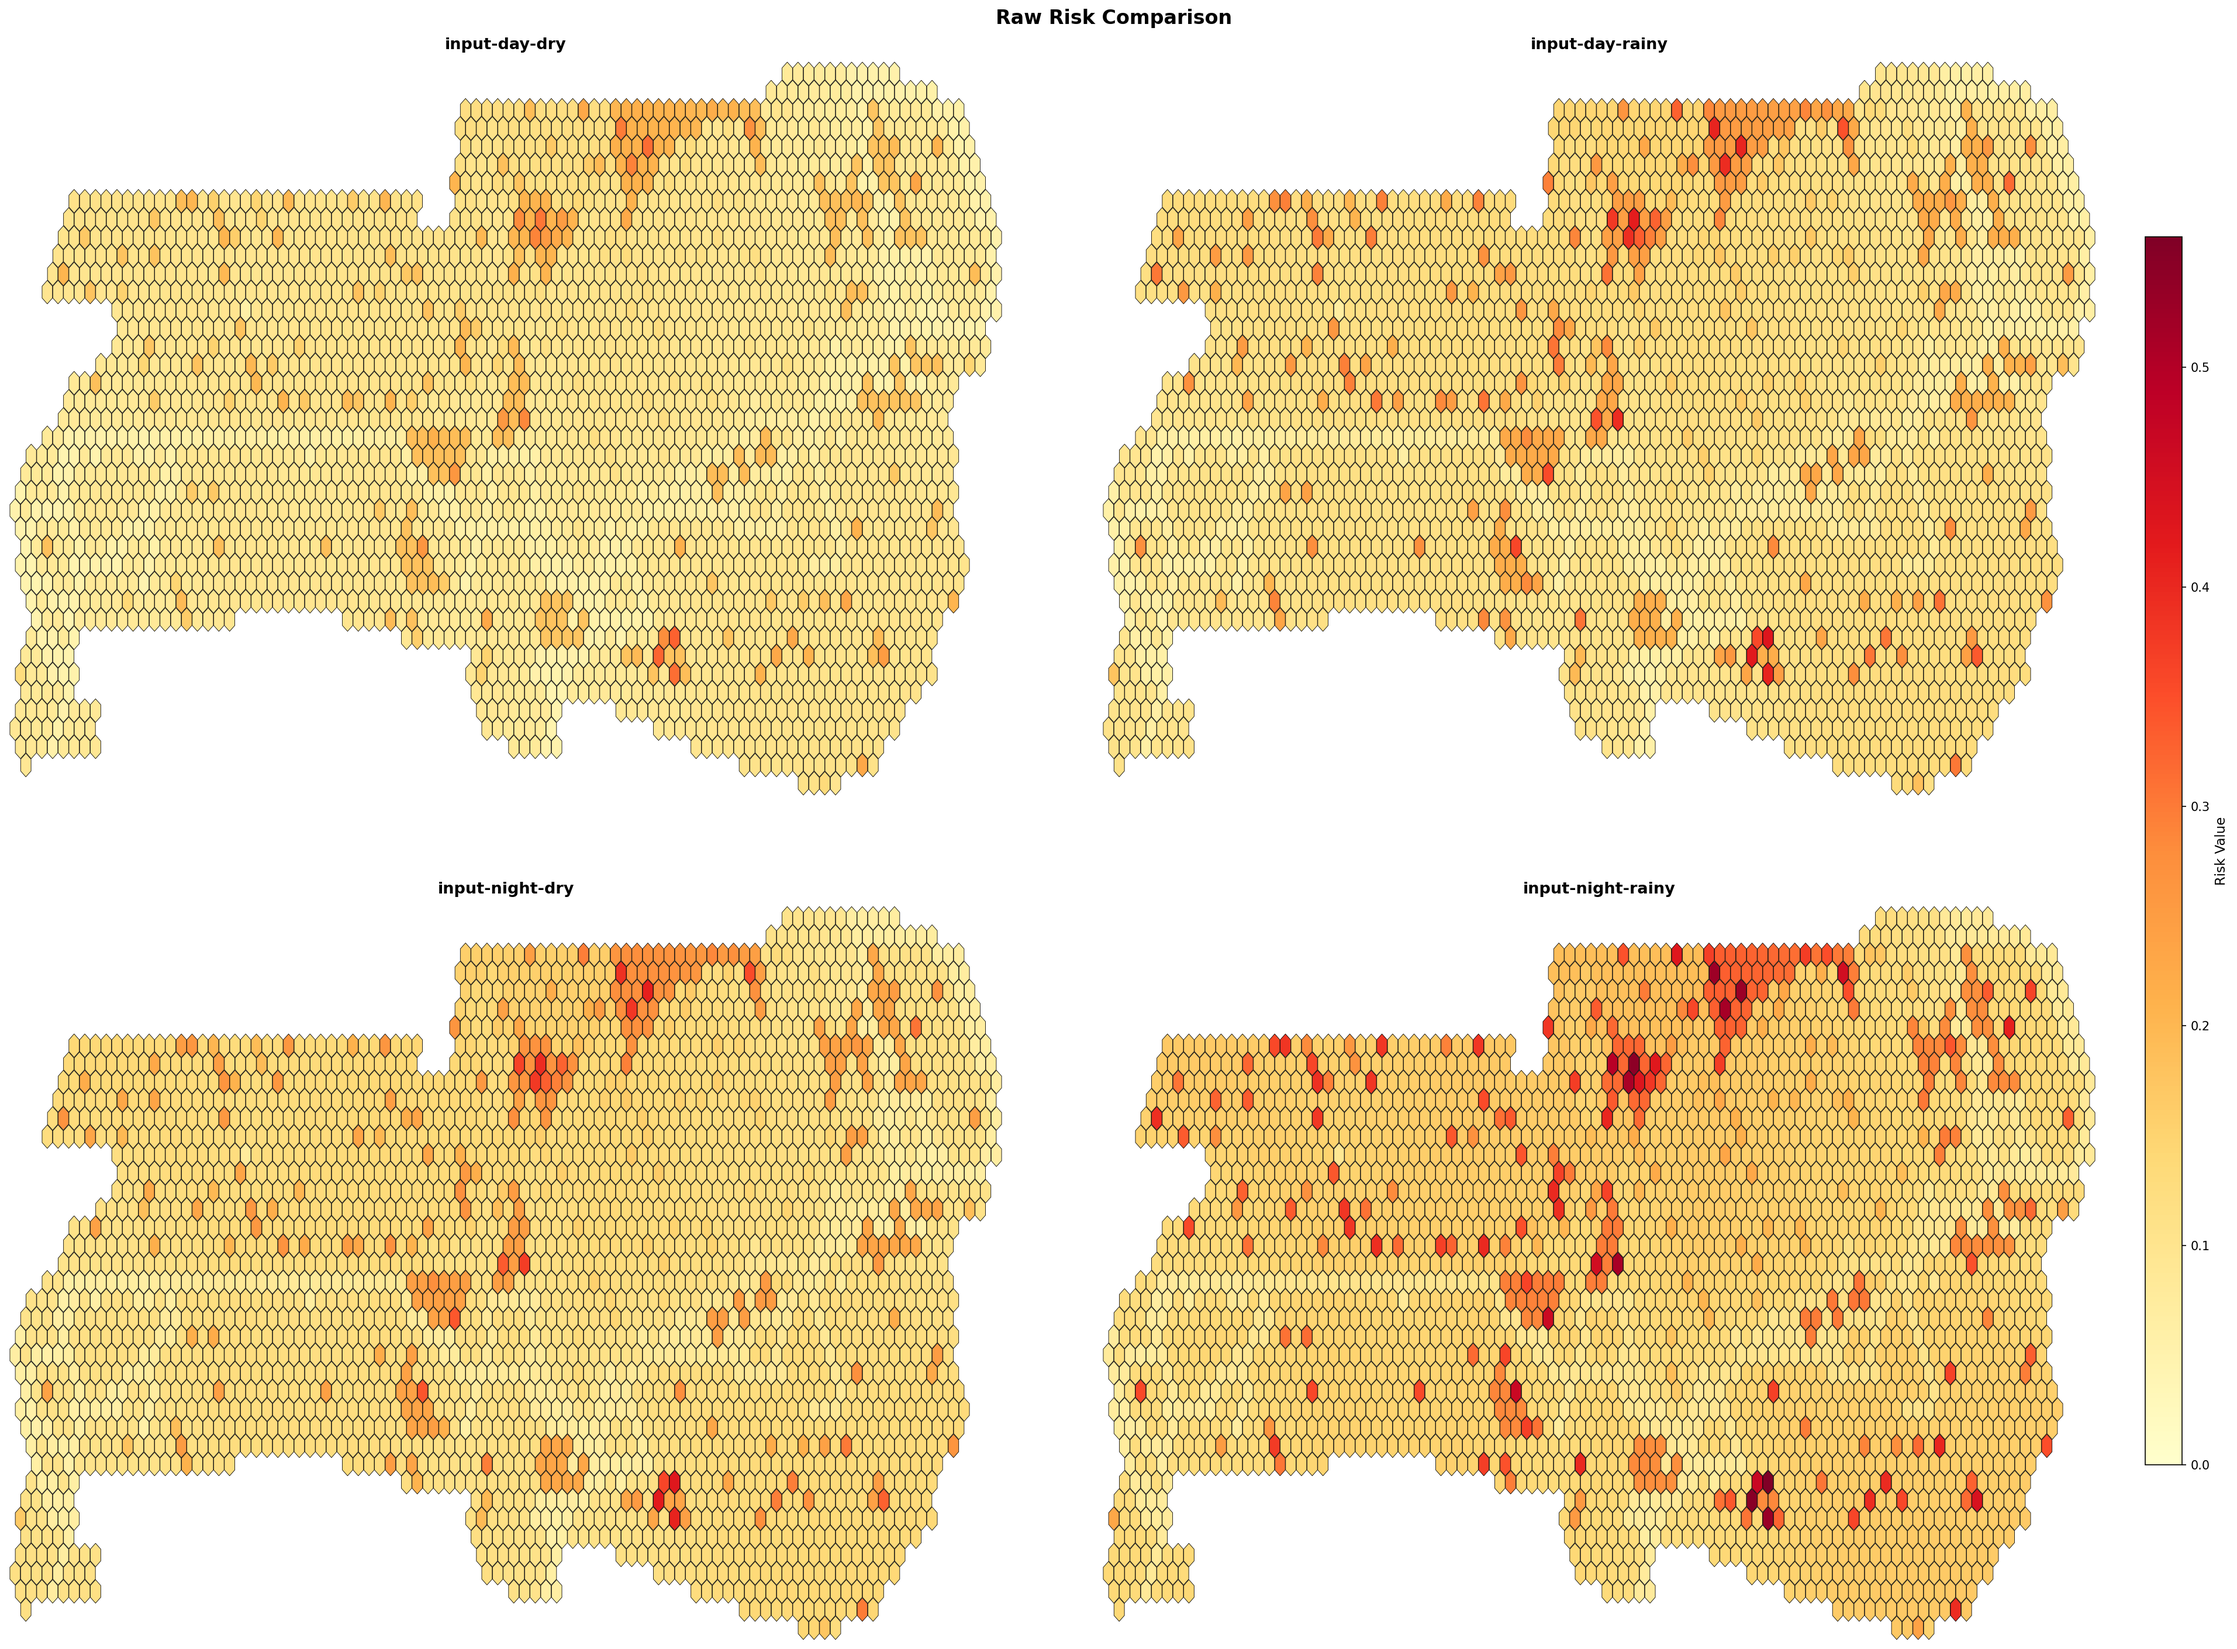
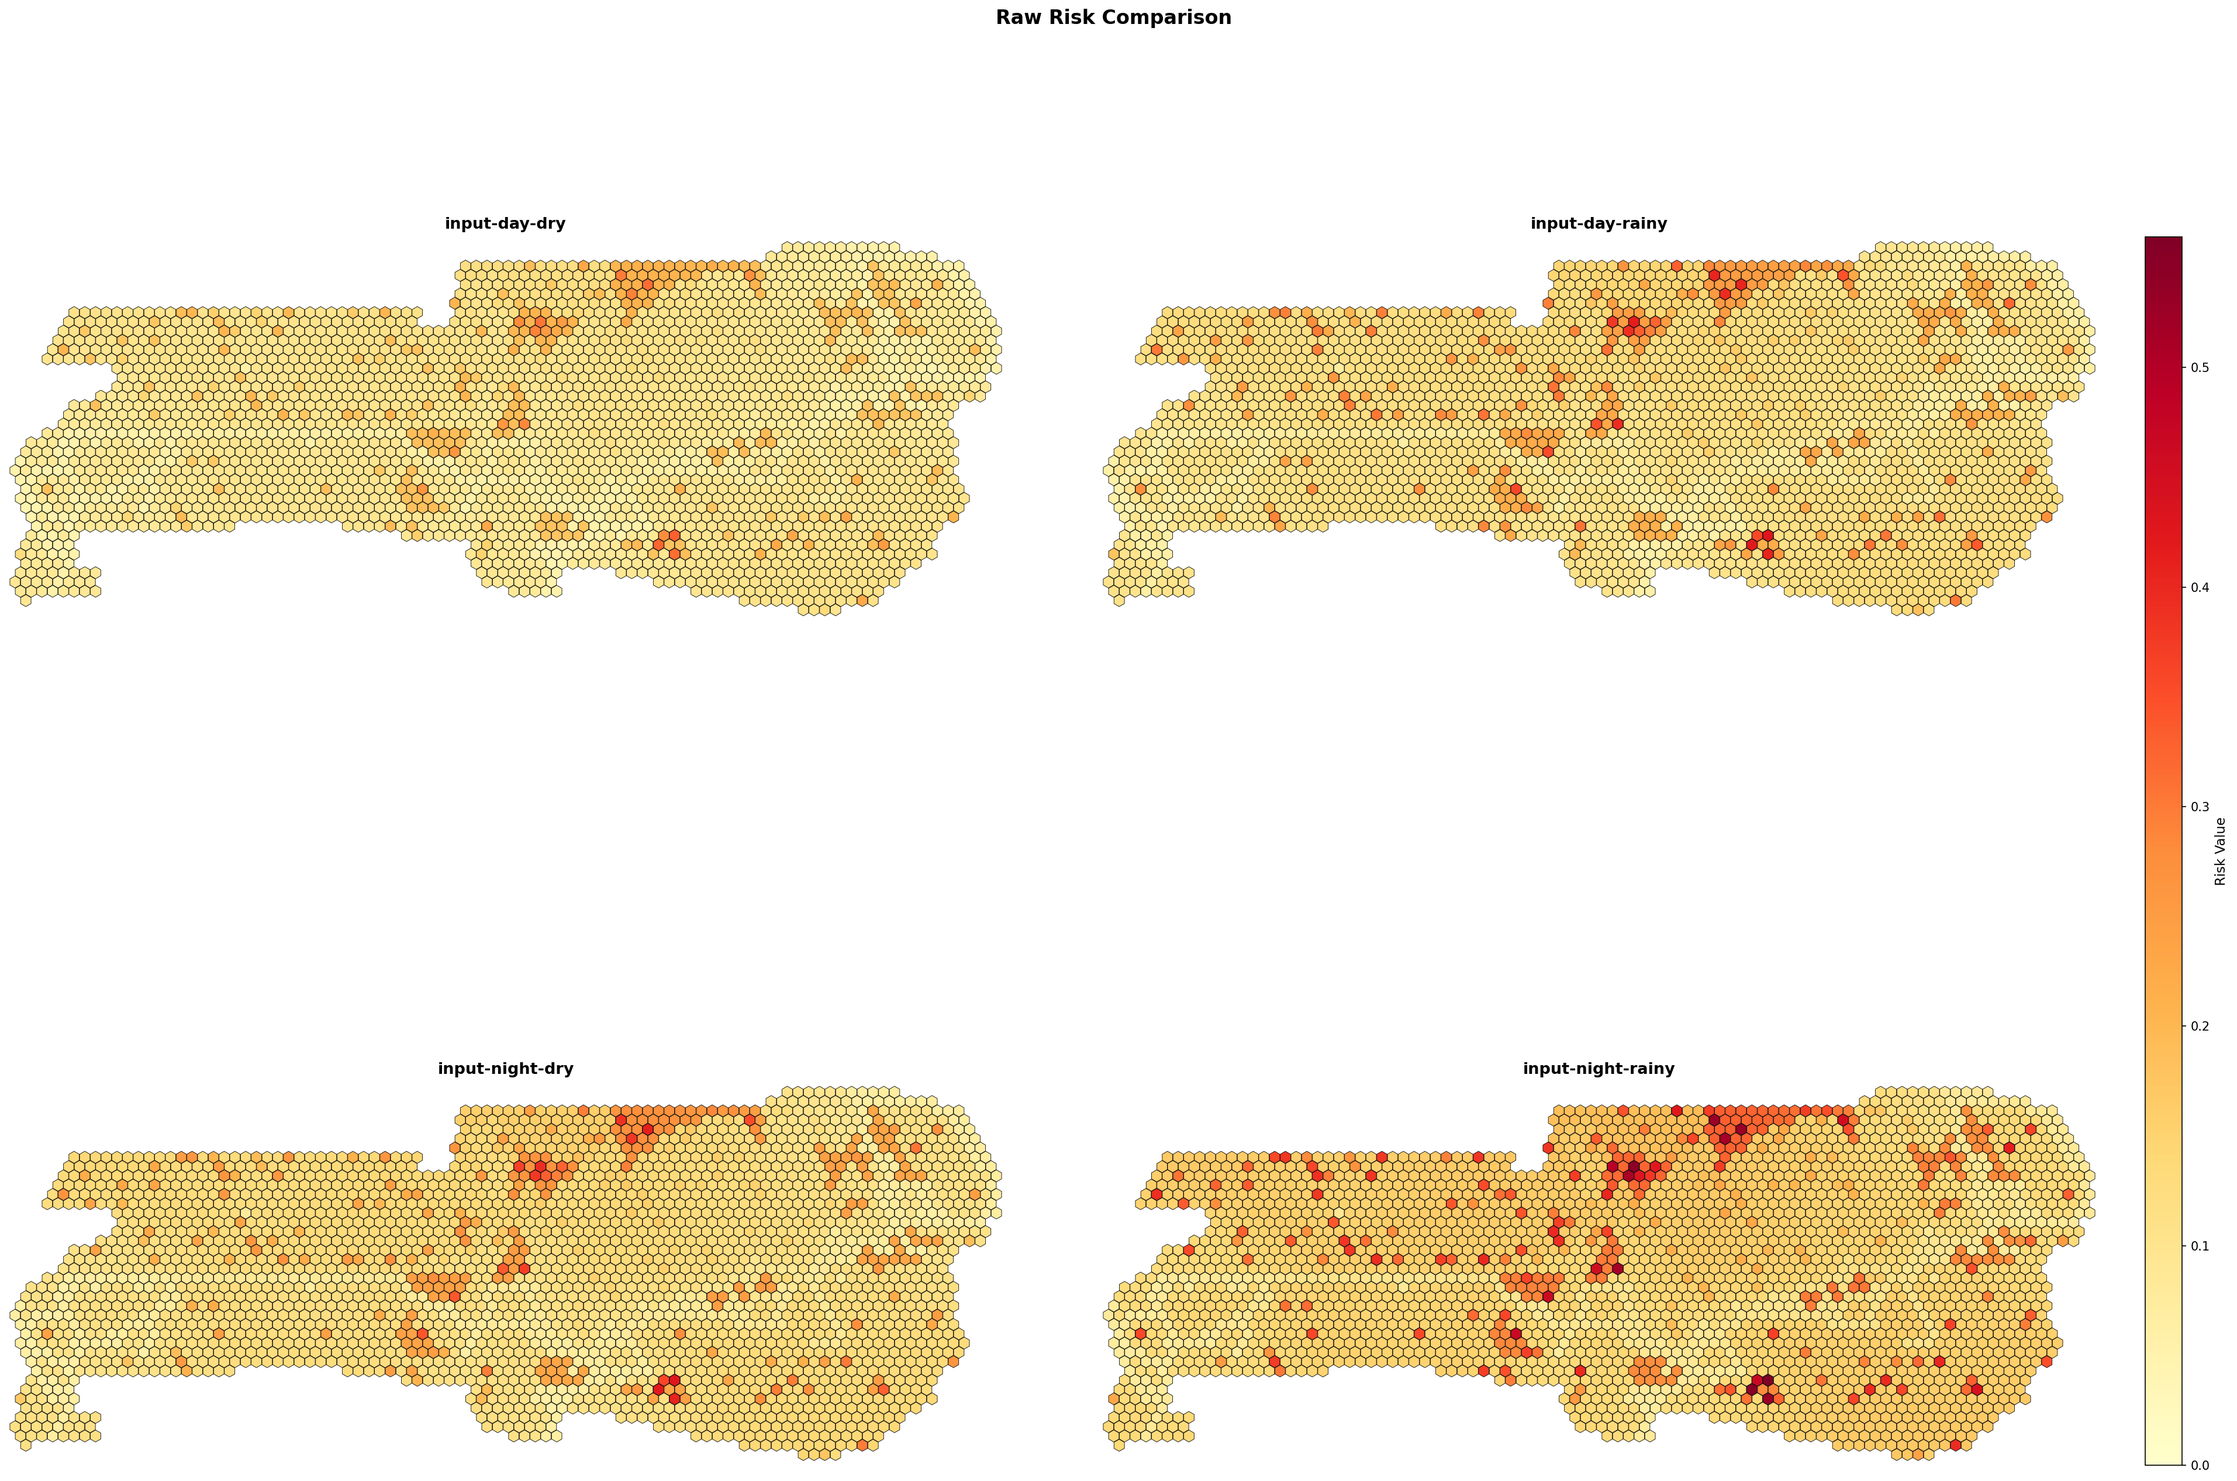
fix(visualization): 修正六边形顶点计算角度并设置等比例坐标轴
调整六边形顶点计算的角度偏移量，从 -π/6 改为 +π/6 以正确绘制六边形
在 setup_map_ax 函数中添加 ax.set_aspect('equal') 确保地图显示比例正确

diff --git a/hexdynamic/visualize_output.py b/hexdynamic/visualize_output.py
@@ -38,7 +38,7 @@ from matplotlib import cm
 def hex_corners(cx, cy, size):
     pts = []
     for i in range(6):
-        a = math.pi / 3 * i - math.pi / 6
+        a = math.pi / 3 * i + math.pi / 6
         pts.append((cx + size * math.cos(a), cy + size * math.sin(a)))
     return pts
 
@@ -130,6 +130,7 @@ def setup_map_ax(ax, grids, hex_size, margin=1.5):
         xs.append(cx); ys.append(cy)
     ax.set_xlim(min(xs) - hex_size - margin, max(xs) + hex_size + margin)
     ax.set_ylim(min(ys) - hex_size - margin, max(ys) + hex_size + margin)
+    ax.set_aspect('equal')
 
 
 def draw_boundary(ax, grids, boundary_xy, hex_size):

diff --git a/hexdynamic/risk_analysis.py b/hexdynamic/risk_analysis.py
@@ -74,7 +74,7 @@ VEGETATION_COLORS = {
 def hex_corners(cx, cy, size):
     pts = []
     for i in range(6):
-        a = math.pi / 3 * i - math.pi / 6
+        a = math.pi / 3 * i + math.pi / 6
         pts.append((cx + size * math.cos(a), cy + size * math.sin(a)))
     return pts
 
@@ -125,6 +125,7 @@ def setup_map_ax(ax, grids, hex_size, margin=1.5):
         xs.append(cx); ys.append(cy)
     ax.set_xlim(min(xs) - hex_size - margin, max(xs) + hex_size + margin)
     ax.set_ylim(min(ys) - hex_size - margin, max(ys) + hex_size + margin)
+    ax.set_aspect('equal')
 
 
 def add_colorbar(fig, ax_cbar, cmap, norm, label):
